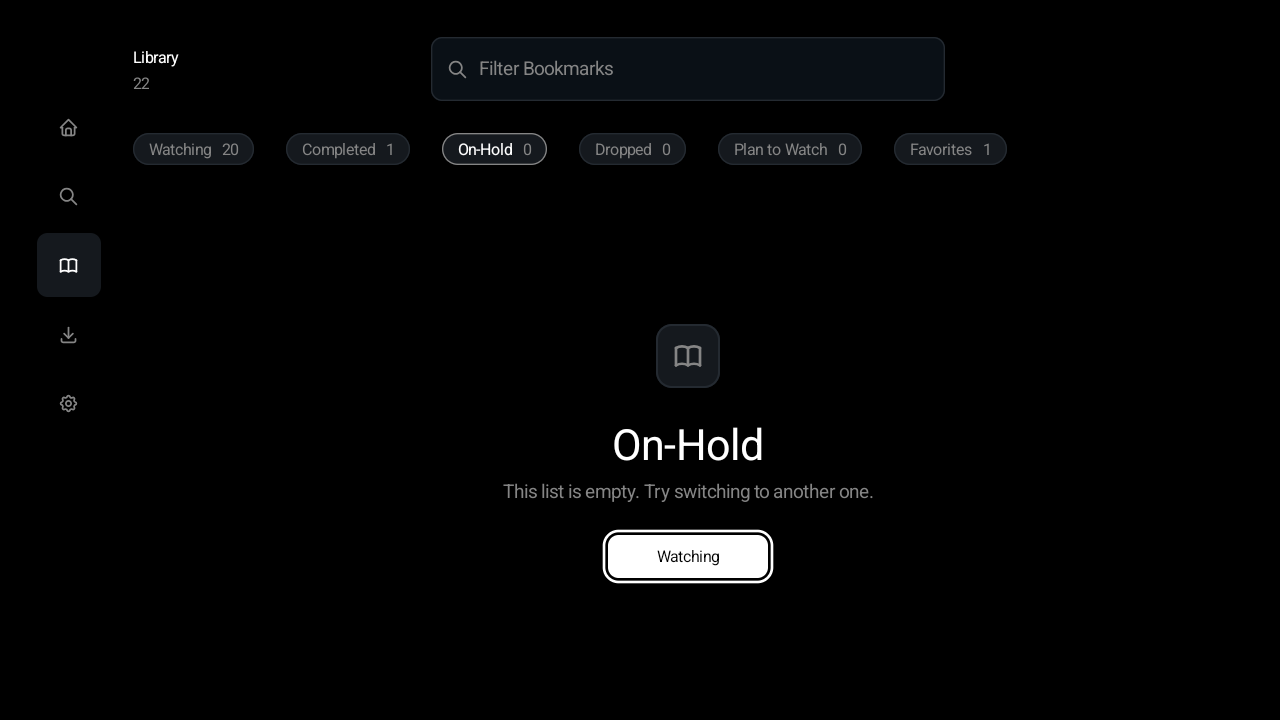
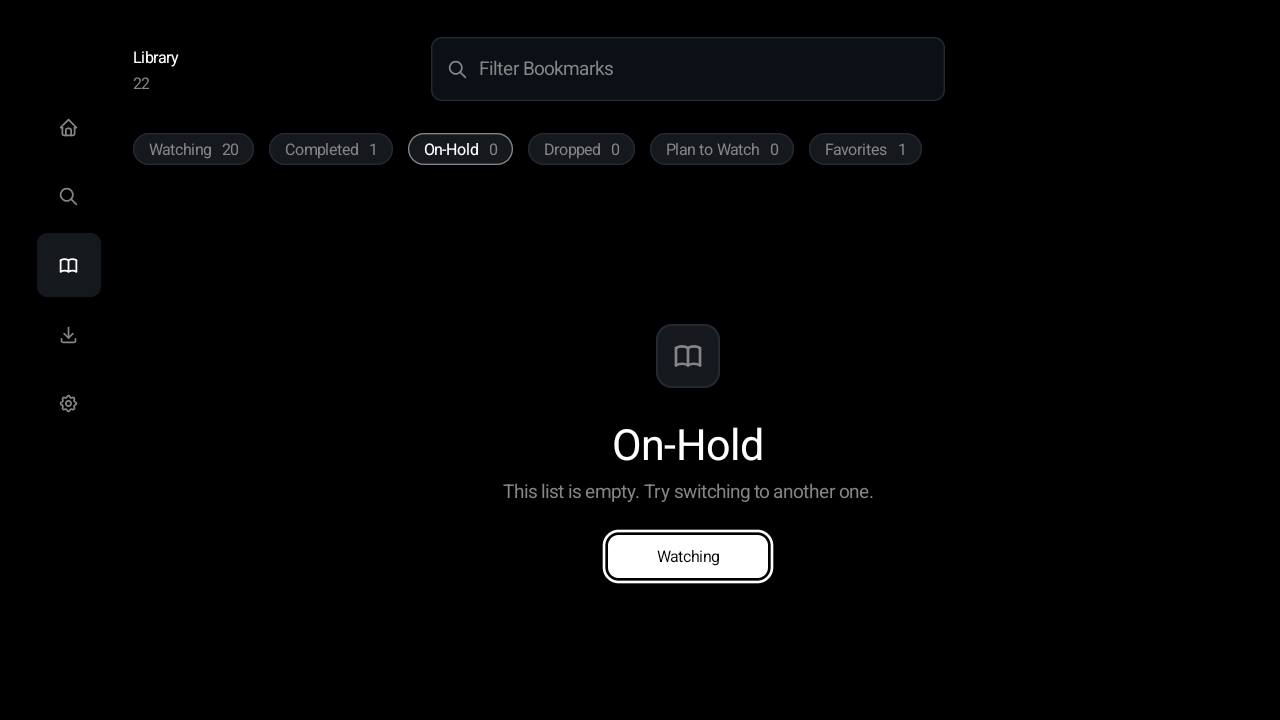
BUG-65: TV chip rows 12dp apart, each ring inside its own cell; tokens only
The owner: the spacing between chips is too much, and the gap should come from tokens only. Chips were
ChipRowSpacing (24dp) apart, and a focused chip's ring bled FocusRingBleed (4dp) outside its cell.

A chip's cell is now its pill plus FocusRingBleed on each side, so the ring stays inside it. ChipRow spaces the cells
MinFocusGap - 2 * FocusRingBleed apart, so a person sees MinFocusGap (12dp) between pills and a focused ring ends 8dp
short of its neighbour. ChipRow still starts and ends at a pill, so no caller moves. Search's type chips now use
ChipRow, so every TV chip row has the same spacing. ChipRowSpacing itself is unchanged; it spaces other things too.

BUG-60's ChromeCellGap (0dp) is gone under the same rule: Home's chrome cells sit in a Row with no arrangement.

30 screenshots recorded again; each changes only in its chip row's band.

Changed region(s): [[0.1875, 0.1833, 0.8125, 0.2444]]

diff --git a/core/designsystem/src/androidDeviceTest/kotlin/com/lagradost/cloudstream4/core/designsystem/target/ChipDeviceTest.kt b/core/designsystem/src/androidDeviceTest/kotlin/com/lagradost/cloudstream4/core/designsystem/target/ChipDeviceTest.kt
@@ -9,6 +9,7 @@ import androidx.compose.ui.geometry.Rect
 import androidx.compose.ui.graphics.PixelMap
 import androidx.compose.ui.graphics.toPixelMap
 import androidx.compose.ui.test.captureToImage
+import androidx.compose.ui.test.isFocused
 import androidx.compose.ui.test.junit4.createComposeRule
 import androidx.compose.ui.test.onNodeWithText
 import androidx.compose.ui.test.onRoot
@@ -71,9 +72,16 @@ class ChipDeviceTest {
 
     private fun PixelMap.ringAt(x: Float, y: Float): Boolean = this[x.toInt(), y.toInt()] == cloudStreamDarkColors().focus
 
+    /** The pill inside a chip's cell: the cell less [CloudStreamDimens.FocusRingBleed] each side (`BUG-65`). */
+    private fun visual(label: String): Rect {
+        val cell = cell(label)
+        val room = CloudStreamDimens.FocusRingBleed.px()
+        return Rect(cell.left + room, cell.top, cell.right - room, cell.bottom)
+    }
+
     /** Clear at 1dp out, the stroke's middle at 3dp, and clear again at 5dp, on each side of the visual. */
     private fun assertEvenRing(label: String) {
-        val cell = cell(label)
+        val cell = visual(label)
         val frame = rule.onRoot().captureToImage().toPixelMap()
         val top = cell.center.y - (CloudStreamDimens.ChipVisualHeight / 2).px()
         val bottom = cell.center.y + (CloudStreamDimens.ChipVisualHeight / 2).px()
@@ -113,6 +121,74 @@ class ChipDeviceTest {
         assertEquals("the last chip holds focus", LIVE, dpad.press(Dpad.Right))
         assertEquals(SERIES, dpad.press(Dpad.Left))
         assertEvenRing(SERIES)
+    }
+
+    /**
+     * `BUG-65`: the gap a person sees between two chips is [CloudStreamDimens.MinFocusGap], measured in pixels along the
+     * pills' middle: every run of ground between two pills.
+     */
+    @Test
+    fun theVisibleGapBetweenChipsIsMinFocusGap() {
+        show()
+        rule.waitForIdle()
+        val frame = rule.onRoot().captureToImage().toPixelMap()
+        val y = cell(MOVIES).center.y.toInt()
+        val ground = cloudStreamDarkColors().bg
+        val from = cell(MOVIES).left.toInt()
+        val to = cell(LIVE).right.toInt()
+        // Runs of ground with a pill on both sides.
+        val gaps = mutableListOf<Int>()
+        var seenPill = false
+        var run = 0
+        for (x in from..to) {
+            if (frame[x, y] == ground) {
+                if (seenPill) run++
+            } else {
+                if (run > 0) gaps += run
+                run = 0
+                seenPill = true
+            }
+        }
+        val pillGaps = gaps
+        assertEquals("two gaps between three pills: $gaps", 2, pillGaps.size)
+        pillGaps.forEach { assertEquals("the visible gap, px", CloudStreamDimens.MinFocusGap.px(), it.toFloat(), 1f) }
+    }
+
+    /**
+     * `BUG-65`: each focused chip's ring stays inside its own cell, clear of the next chip's pill, and every key press puts
+     * focus on exactly one chip, the next one. The ring is what turns the focus colour against a capture before any
+     * chip had focus: `ink` is the same white, and a selected chip's label is `ink` whether focused or not.
+     */
+    @Test
+    fun eachRingStaysInsideItsOwnCellAndOneKeyFocusesOneChip() {
+        show()
+        val labels = listOf(MOVIES, SERIES, LIVE)
+        val focus = cloudStreamDarkColors().focus
+        rule.waitForIdle()
+        val atRest = rule.onRoot().captureToImage().toPixelMap()
+        labels.forEachIndexed { i, label ->
+            val moved = if (i == 0) dpad.enter() else dpad.press(Dpad.Right)
+            assertEquals("the key focused the next chip", label, moved)
+            assertEquals("exactly one chip holds focus", 1, rule.onAllNodes(isFocused()).fetchSemanticsNodes().size)
+            val cell = cell(label)
+            val frame = rule.onRoot().captureToImage().toPixelMap()
+            var left = Int.MAX_VALUE; var right = -1; var top = Int.MAX_VALUE; var bottom = -1
+            for (y in 0 until frame.height) for (x in 0 until frame.width) {
+                if (frame[x, y] == focus && atRest[x, y] != focus) {
+                    left = minOf(left, x); right = maxOf(right, x); top = minOf(top, y); bottom = maxOf(bottom, y)
+                }
+            }
+            assertTrue("no ring around $label", right >= 0)
+            val ring = "$label's ring x $left..$right y $top..$bottom"
+            val inCell = "its cell x ${cell.left}..${cell.right} y ${cell.top}..${cell.bottom}"
+            assertTrue("$ring passes $inCell on the left", left >= cell.left.toInt())
+            assertTrue("$ring passes $inCell on the right", right < cell.right.toInt())
+            assertTrue("$ring passes $inCell at the top", top >= cell.top.toInt())
+            assertTrue("$ring passes $inCell at the foot", bottom < cell.bottom.toInt())
+            labels.getOrNull(i + 1)?.let { next ->
+                assertTrue("$ring reaches $next's pill at ${visual(next).left}", right < visual(next).left.toInt())
+            }
+        }
     }
 
     private companion object {

diff --git a/core/designsystem/src/commonMain/kotlin/com/lagradost/cloudstream4/core/designsystem/target/ChipRow.kt b/core/designsystem/src/commonMain/kotlin/com/lagradost/cloudstream4/core/designsystem/target/ChipRow.kt
@@ -8,6 +8,7 @@ import androidx.compose.runtime.Composable
 import androidx.compose.runtime.remember
 import androidx.compose.ui.Alignment
 import androidx.compose.ui.Modifier
+import androidx.compose.ui.layout.layout
 import com.lagradost.cloudstream4.core.theme.CloudStreamDimens
 
 /**
@@ -31,10 +32,19 @@ import com.lagradost.cloudstream4.core.theme.CloudStreamDimens
  *
  * ## Spacing
  *
- * [CloudStreamDimens.ChipRowSpacing] (24dp), the token named for this job. Note that this is
- * double [CloudStreamDimens.MinFocusGap] (12dp), which is the *minimum* legal gap between any two
- * focusables; chips sit at twice the minimum. There is no spacing parameter, because the design
- * has one chip row and one spacing.
+ * **[CloudStreamDimens.MinFocusGap] (12dp) between two chips' visuals** (`BUG-65`, owner,
+ * 2026-11-08: "the spacing between chips is too much", the gap to come from tokens only). It was
+ * [CloudStreamDimens.ChipRowSpacing] (24dp). Each [Chip]'s cell now holds its own ring, a
+ * [CloudStreamDimens.FocusRingBleed] (4dp) either side of the visual, so the cells sit
+ * `MinFocusGap - 2 * FocusRingBleed` (4dp) apart: a focused chip's ring ends 8dp short of its
+ * neighbour, and no two cells touch. There is no spacing parameter, because the design has one chip
+ * row and one spacing.
+ *
+ * ## Where the row starts and ends
+ *
+ * At the first chip's visual and the last one's, as before: the end cells' outer
+ * [CloudStreamDimens.FocusRingBleed] lies just outside the row, where the ring used to bleed, so a
+ * caller's inset still lines the first chip up with the content beside it.
  *
  * ## This row does not scroll
  *
@@ -54,11 +64,25 @@ fun ChipRow(
     modifier: Modifier = Modifier,
     content: @Composable RowScope.() -> Unit,
 ) {
-    val arrangement = remember { Arrangement.spacedBy(CloudStreamDimens.ChipRowSpacing) }
+    val arrangement = remember {
+        Arrangement.spacedBy(CloudStreamDimens.MinFocusGap - CloudStreamDimens.FocusRingBleed * 2)
+    }
     Row(
-        modifier = modifier.height(CloudStreamDimens.ChipFocusCell),
+        modifier = modifier.height(CloudStreamDimens.ChipFocusCell).ringRoomOutside(),
         horizontalArrangement = arrangement,
         verticalAlignment = Alignment.CenterVertically,
         content = content,
     )
+}
+
+/**
+ * Lays the cells out [CloudStreamDimens.FocusRingBleed] wider than the row on each side, and shifts them
+ * back by as much, so the row's own box runs from the first chip's visual to the last one's.
+ */
+private fun Modifier.ringRoomOutside(): Modifier = layout { measurable, constraints ->
+    val room = CloudStreamDimens.FocusRingBleed.roundToPx()
+    val wider = if (constraints.hasBoundedWidth) constraints.maxWidth + room * 2 else constraints.maxWidth
+    val placeable = measurable.measure(constraints.copy(minWidth = 0, maxWidth = wider))
+    val width = (placeable.width - room * 2).coerceIn(constraints.minWidth, constraints.maxWidth)
+    layout(width, placeable.height) { placeable.place(-room, 0) }
 }

diff --git a/feature/home/src/commonMain/kotlin/com/lagradost/cloudstream4/feature/home/tv/HomeScreenTv.kt b/feature/home/src/commonMain/kotlin/com/lagradost/cloudstream4/feature/home/tv/HomeScreenTv.kt
@@ -689,8 +689,12 @@ private fun HomeChromeRow(
         val cell: @Composable (ImageVector, String, String, () -> Unit) -> Unit = { icon, label, name, onClick ->
             HomeChromeCell(icon, label, name, stops, focusTarget, onFocusTaken, onClick)
         }
-        // `BUG-60`: the icon cells touch (`ChromeCellGap`); the source control keeps `MinFocusGap` before the first.
-        Row(horizontalArrangement = Arrangement.spacedBy(HomeScreenTvDefaults.ChromeCellGap)) {
+        // `BUG-60`: the icon cells touch, with no arrangement and so no number (owner, 2026-11-08: sizes from tokens
+        // only, `BUG-65`). Their 48dp cells sit edge to edge and two 32dp tiles are 16dp apart: an owner-approved
+        // exception to `MinFocusGap` for this row only. Safe because `IconOnlyButton` rings its 32dp tile 2dp clear with
+        // a 2dp stroke, 40dp across, inside its 48dp cell, so two rings never overlap and every cell is a whole 48dp
+        // target; `HomeScreenTvDeviceTest` measures both. The source control keeps `MinFocusGap` before the first.
+        Row {
             if (hasRows) {
                 cell(CloudStreamIcons.Retry, stringResource(Res.string.reload_provider), RELOAD_CELL) {
                     onAction(HomeAction.ReloadRequested)
@@ -889,19 +893,6 @@ object HomeScreenTvDefaults {
 
     /** Mirrors `FocusBandInset`. */
     val ContentInsetEnd: Dp = CloudStreamDimens.FocusBandInset
-
-    /**
-     * Between two of the chrome's icon cells (Reload, Random, Search, the account): none, so their 48dp cells touch and
-     * the visible gap between two 32dp tiles is 16dp. **An owner-approved exception to `CloudStreamDimens.MinFocusGap`**
-     * (2026-11-08, `BUG-60`: "the spacing is too much between icon button"), for this row only. 3c and 3j draw the cells
-     * `MinFocusGap` apart, which with their 24dp tiles is a 36dp visible gap, wider still.
-     *
-     * Safe because each ring stays inside its own cell: `IconOnlyButton` rings its 32dp tile `FocusRingOffset` (2dp)
-     * clear with a `FocusRingStroke` (2dp) stroke, so the ring is 40dp across in a 48dp cell, 4dp clear of each edge.
-     * Two cells that touch therefore never draw overlapping rings, and every cell is still a whole 48dp focus target.
-     * `HomeScreenTvDeviceTest` measures both; a tile past 40dp would put its ring over the neighbour and fail it.
-     */
-    val ChromeCellGap: Dp = 0.dp
 
     /** 3d's `.row { gap: 24px }`, so nine cards fit where it draws them. Mirrors `MinFocusGap`. */
     val CardGap: Dp = CloudStreamDimens.MinFocusGap

diff --git a/core/designsystem/src/commonMain/kotlin/com/lagradost/cloudstream4/core/designsystem/target/Chip.kt b/core/designsystem/src/commonMain/kotlin/com/lagradost/cloudstream4/core/designsystem/target/Chip.kt
@@ -39,12 +39,15 @@ import com.lagradost.cloudstream4.core.theme.CloudStreamTheme
  * The ring sits on the *visual*, the same as on a text button: [CloudStreamDimens.FocusRingOffset]
  * (2dp) clear of the pill on all four sides, with the pill's own corners (`DEC-17`, 2026-11-05).
  * It used to ring the cell, which left 2dp at the sides and 14dp above and below. It is draw-only,
- * so a focused chip moves and resizes nothing. It stays inside the cell's height, and bleeds
- * [CloudStreamDimens.FocusRingBleed] (4dp) past the cell's width, so a focused chip draws above its
- * neighbours and no ancestor may clip that bleed.
+ * so a focused chip moves and resizes nothing.
  *
- * The cell's **width is intrinsic** — it is the visual's width, which is the label's width plus
- * [ChipDefaults.VisualHorizontalPadding] on each side, plus the count if there is one. Geometry
+ * **The ring stays inside the cell** (`BUG-65`, owner, 2026-11-08). The cell is the visual plus
+ * [CloudStreamDimens.FocusRingBleed] (4dp) on each side, exactly the room the ring takes, so a
+ * focused chip never draws over a neighbour, however close [ChipRow] puts them. It used to be the
+ * visual's width, and the ring bled 4dp past it.
+ *
+ * The cell's **width is intrinsic** — the label's width plus [ChipDefaults.VisualHorizontalPadding]
+ * on each side, plus the count if there is one, plus the ring's room. Geometry
  * rule 6 exempts text measurement from the step; see [ChipRow], which is where the next reader is
  * most likely to try to "fix" that.
  *
@@ -93,7 +96,8 @@ fun Chip(
                 indication = null,
                 role = Role.Tab,
                 onClick = onClick,
-            ),
+            )
+            .padding(horizontal = CloudStreamDimens.FocusRingBleed),
         contentAlignment = Alignment.Center,
     ) {
         ChipVisual(label = label, selected = selected, focused = focused, count = count, shape = shape)

diff --git a/core/designsystem/src/jvmTest/kotlin/com/lagradost/cloudstream4/core/designsystem/target/FocusRingGapTest.kt b/core/designsystem/src/jvmTest/kotlin/com/lagradost/cloudstream4/core/designsystem/target/FocusRingGapTest.kt
@@ -201,8 +201,13 @@ class FocusRingGapTest {
         }
     }
 
+    /**
+     * Two chips whose cells touch: the ring around the first is drawn whole, and the second's fill does not paint over it.
+     * Since `BUG-65` a cell holds its own ring, [CloudStreamDimens.FocusRingBleed] either side of the pill, so the ring
+     * is found from the pill's edge, inside the cell, rather than past the cell's edge.
+     */
     @Test
-    fun `a focused chip's ring draws over a neighbour that touches it`() {
+    fun `a focused chip's ring stays whole beside a neighbour that touches it`() {
         val dpad = Dpad()
         val bounds = Bounds()
         Harness {
@@ -217,11 +222,13 @@ class FocusRingGapTest {
             harness.settle()
             dpad.press(FocusDirection.Next, harness)
             val frame = harness.pixels()
-            val right = bounds[FIRST].right.toInt()
+            val cellRight = bounds[FIRST].right.toInt()
             val y = bounds[FIRST].center.y.toInt()
-            assertEquals(right, bounds[SECOND].left.toInt(), "the two touch")
+            assertEquals(cellRight, bounds[SECOND].left.toInt(), "the two touch")
+            val right = cellRight - CloudStreamDimens.FocusRingBleed.value.toInt()
             assertTrue(frame[right + gap, y].isRing(), "the next chip's fill must not paint over the ring")
             assertTrue(frame[right + gap + stroke - 1, y].isRing(), "the next chip's fill must not paint over the ring")
+            assertTrue(right + gap + stroke - 1 < cellRight, "the ring stays inside its own cell")
         }
     }
 

diff --git a/feature/search/src/commonMain/kotlin/com/lagradost/cloudstream4/feature/search/tv/SearchChromeRow.kt b/feature/search/src/commonMain/kotlin/com/lagradost/cloudstream4/feature/search/tv/SearchChromeRow.kt
@@ -23,6 +23,7 @@ import com.lagradost.cloudstream4.core.designsystem.state.FailureNotice
 import com.lagradost.cloudstream4.core.designsystem.state.StateAction
 import com.lagradost.cloudstream4.core.designsystem.state.StateActionButton
 import com.lagradost.cloudstream4.core.designsystem.target.Chip
+import com.lagradost.cloudstream4.core.designsystem.target.ChipRow
 import com.lagradost.cloudstream4.core.designsystem.target.ChromeButton
 import com.lagradost.cloudstream4.core.designsystem.target.TextField
 import com.lagradost.cloudstream4.core.strings.generated.resources.Res
@@ -139,7 +140,8 @@ internal fun SearchChipRow(
         modifier = modifier.fillMaxWidth().height(CloudStreamDimens.ChipFocusCell),
         verticalAlignment = Alignment.CenterVertically,
     ) {
-        Row(
+        // `BUG-65`: the design system's chip row, so these chips are spaced like every other TV chip row.
+        ChipRow(
             modifier = Modifier
                 .weight(CHIPS_WEIGHT)
                 .horizontalScroll(rememberScrollState())
@@ -147,8 +149,6 @@ internal fun SearchChipRow(
                     start = SearchScreenTvDefaults.ContentInsetStart,
                     end = CloudStreamDimens.ChipRowSpacing,
                 ),
-            horizontalArrangement = Arrangement.spacedBy(CloudStreamDimens.ChipRowSpacing),
-            verticalAlignment = Alignment.CenterVertically,
         ) {
             filters.available.forEach { type ->
                 TypeChip(

diff --git a/feature/home/src/androidDeviceTest/kotlin/com/lagradost/cloudstream4/feature/home/tv/HomeScreenTvDeviceTest.kt b/feature/home/src/androidDeviceTest/kotlin/com/lagradost/cloudstream4/feature/home/tv/HomeScreenTvDeviceTest.kt
@@ -1920,7 +1920,7 @@ class HomeScreenTvDeviceTest {
     }
 
     /**
-     * `BUG-60`: the chrome's icon cells touch (`ChromeCellGap`, the owner's exception to `MinFocusGap`), so each focused
+     * `BUG-60`: the chrome's icon cells touch (the owner's exception to `MinFocusGap`), so each focused
      * cell's ring is measured: inside its own 48dp cell on every side, so it never reaches a neighbour's, and no two cells
      * overlap. A tile grown past 40dp rings past its cell and fails here. The ring is what turns bright when the cell
      * takes focus, against a capture at rest, so the neighbours' glyphs are not counted.
@@ -1939,7 +1939,7 @@ class HomeScreenTvDeviceTest {
             assertEquals("${labels[i]}'s cell width", CloudStreamDimens.IconTargetCell.value, (cell.right - cell.left).value, GEOMETRY_SLACK)
             if (i > 0) {
                 val gap = (cell.left - cells[i - 1].right).value
-                assertEquals("from ${labels[i - 1]}'s cell to ${labels[i]}'s", HomeScreenTvDefaults.ChromeCellGap.value, gap, GEOMETRY_SLACK)
+                assertEquals("from ${labels[i - 1]}'s cell to ${labels[i]}'s", 0f, gap, GEOMETRY_SLACK)
             }
         }
         labels.forEachIndexed { i, label ->

diff --git a/docs/tasks/defects.md b/docs/tasks/defects.md
@@ -2548,7 +2548,8 @@ design. 3c draws the account as a 32dp avatar.
 **Fix:**
 - The account is now an `IconOnlyButton` like the other three: the same 32dp outlined tile, the same 16dp glyph in
   `ink`, the same ring, and "Switch account" drawn under it on focus, as Random's name is.
-- **The four icon cells touch** (`HomeScreenTvDefaults.ChromeCellGap`, 0dp), so two tiles are 16dp apart. The owner's
+- **The four icon cells touch** (a `Row` with no arrangement; it was `HomeScreenTvDefaults.ChromeCellGap`, 0dp, until
+  `BUG-65` removed the number under the owner's tokens-only rule), so two tiles are 16dp apart. The owner's
   call on 2026-11-08, an approved exception to `MinFocusGap` for this row only. It is safe: a ring is the 32dp tile plus
   2dp offset and 2dp stroke on each side, 40dp, inside its 48dp cell with 4dp spare on each side, so two rings never
   overlap and every cell is still a whole 48dp target. The source control keeps `MinFocusGap` before the first cell.
@@ -3261,3 +3262,60 @@ path, query or fragment (`a@2x.jpg`) is kept, and so is `%40`.
   in both classes passed in that run (49 tests, 3 failed).
 - With the fix, `:desktopApp:jvmTest` passed 543 of 543, and `:feature:settings:jvmTest` 17 of 17.
 - The four gates each exited 0, and `check-test-results.py` read 242 files with 0 failures.
+
+## BUG-65 — TV chip rows: too far apart, and a focused chip's ring outside its cell · **low, visual** · measured 2026-11-08
+
+**Status:** fixed in pr · raised by the owner from a screenshot of TV Library's tabs ·
+`Chip.kt`, `ChipRow.kt`, `SearchChromeRow.kt`, `HomeScreenTv.kt`
+
+The owner: *"the spacing between chips is too much"*. Then: the visible gap should be 8dp or 12dp, *"and these come
+from tokens only"*.
+
+**Measured** on `Television_720p`, on the committed `library-grid-focus-tab` (1dp ≈ 1.33px), through the pills' middle:
+- **The pill** (the visible chip): 32px tall, 24dp (`ChipVisualHeight`). **Its focus cell** is 48dp tall (`ChipFocusCell`)
+  and exactly as wide as the pill.
+- **The visible gap** between two pills: 32px, 24dp, which is `ChipRowSpacing`. The owner's 50px was probably measured on
+  a 1080p screen, where 24dp is 48px.
+- **A focused chip's ring** ended 6px (4dp, `FocusRingBleed`) outside its own cell, into the gap.
+
+**Fix:**
+- **The ring stays inside its cell.** A chip's cell is now the pill plus `FocusRingBleed` on each side, the room the
+  ring takes.
+- **12dp between pills: `MinFocusGap`.** The owner preferred 12dp to 8dp. The cells are `MinFocusGap - 2 *
+  FocusRingBleed` (4dp) apart, so a focused ring ends 8dp short of its neighbour, and no two cells touch or overlap.
+- **The row still starts and ends at a pill.** `ChipRow` lays the cells out `FocusRingBleed` wider than itself on each
+  side and shifts them back, so the end cells' outer room lies where the ring used to bleed, and each caller's inset
+  still lines the first chip up with the content beside it.
+- **Every TV chip row** goes through `ChipRow`: Home's bookmark filters, Library's tabs, Search's type chips (which had
+  their own `Row` with `ChipRowSpacing`, now `ChipRow`), and both of Downloads' rows (the actions, and selection).
+- `ChipRowSpacing` is unchanged: it also spaces rail cards, the skeleton and Home's bookmarks title from its chips.
+- **`BUG-60`'s `ChromeCellGap` (0dp) is gone**, under the same tokens-only rule: Home's chrome cells sit in a `Row` with no
+  arrangement, which places them edge to edge with no number at all.
+
+### Behaviour changes
+
+| Before | Now |
+|---|---|
+| 24dp between chips | 12dp (`MinFocusGap`) |
+| A focused chip's ring 4dp outside its cell | Inside its cell |
+| A chip's focus target as wide as its pill | 4dp wider each side |
+
+### Tests
+
+All on `Television_720p`, locally (CI is off).
+
+- `ChipDeviceTest` (`:core:designsystem`, 3, all pass), two new, all three **failing on the old `Chip` and `ChipRow`**:
+  - `theVisibleGapBetweenChipsIsMinFocusGap`: the ground between two pills, in pixels, is `MinFocusGap`. Old: "expected
+    <15.975> but was <32.0>".
+  - `eachRingStaysInsideItsOwnCellAndOneKeyFocusesOneChip`: each focused ring stays inside its own cell and clear of the
+    next pill, and each key press leaves exactly one chip focused, the next one. Old: "Movies's ring x 32..122 passes its
+    cell x 37.0..118.0 on the left".
+  - `dpadMovesAcrossChipsAndTheRingStaysEvenWithNothingMoving` now measures the ring from the pill, since the cell is no
+    longer the pill. Old: "Movies left: the stroke is here".
+- `FocusRingGapTest` (JVM, 8): the touching-chips case now finds the ring from the pill, inside the cell, and asserts it
+  stays inside the cell.
+- Device suites, all pass against the new references: `:core:designsystem` 29, `:feature:home` 86, `:feature:library` 34,
+  `:feature:search` 62, `:feature:downloads` 61. `BUG-60`'s chrome tests pass with the cells' gap asserted as 0.
+- 30 screenshots recorded again across Home, Library, Search and Downloads. A pixel diff of each against its old version
+  shows changes only in its chip row's band, after the row's first pill, which stays put; each was looked at. Measured
+  after: 15 to 16px (12dp) between pills, and a focused ring ending 9px (about 7dp) short of the next pill.
